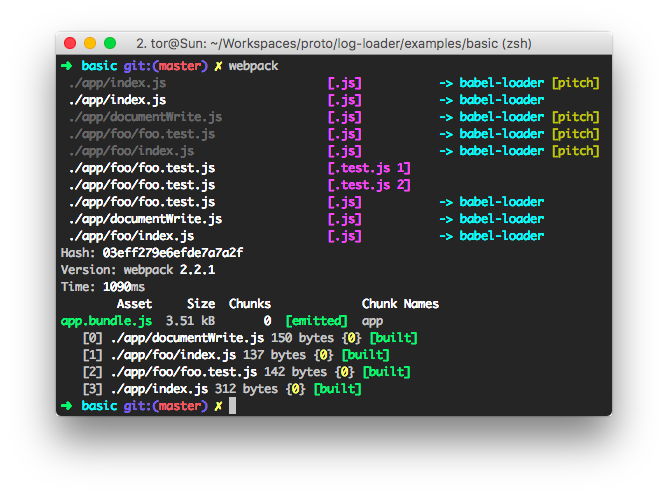
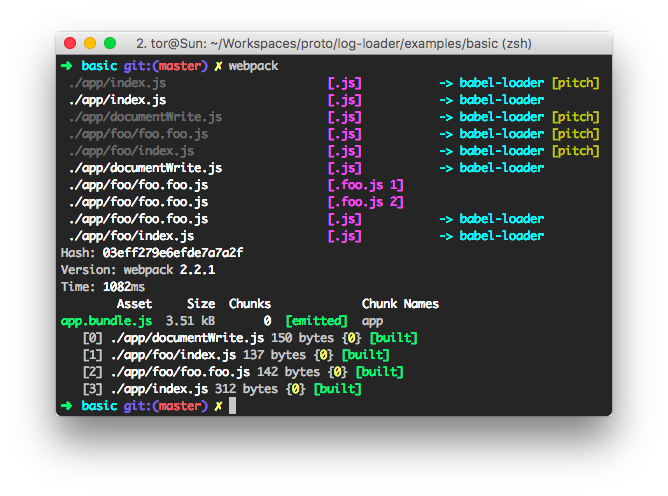
Update basic example

diff --git a/examples/basic/webpack.config.js b/examples/basic/webpack.config.js
@@ -22,7 +22,7 @@ module.exports = {
         extensions: [
             '.js',
             '.json',
-            '.test.js'
+            '.foo.js'
         ]
 
     },
@@ -43,7 +43,7 @@ module.exports = {
                 ]
             },
             {
-                test: /\.test\.js$/,
+                test: /\.foo\.js$/,
                 include: [
                     path.resolve(__dirname, 'app')
                 ],
@@ -51,8 +51,8 @@ module.exports = {
                     path.resolve(__dirname, 'node_modules')
                 ],
                 use: [
-                    'log-loader?id=.test.js 2',
-                    'log-loader?id=.test.js 1'
+                    'log-loader?id=.foo.js 2',
+                    'log-loader?id=.foo.js 1'
                 ]
             }
         ]

diff --git a/examples/basic/README.md b/examples/basic/README.md
@@ -1,9 +1,20 @@
 # Proto
 
+![](screenshot.png)
+
 ## Getting Started
 
+for see result of screenshot, follow next steps
 ```
+git clone https://github.com/extg/log-loader
+cd log-loader/examples/basic
 npm install
+node_modules/.bin/webpack
+```
+
+
+run build
+```
 npm run build
 npm run server
 ```
@@ -12,19 +23,3 @@ for dev
 ```
 npm run watch
 ```
-
-
-## loaders order
-
-```bash
- ./app/index.js                       [.js]           -> babel-loader [pitch]
- ./app/index.js                       [.js]           -> babel-loader
- ./app/documentWrite.js               [.js]           -> babel-loader [pitch]
- ./app/foo/foo.test.js                [.js]           -> babel-loader [pitch]
- ./app/foo/index.js                   [.js]           -> babel-loader [pitch]
- ./app/documentWrite.js               [.js]           -> babel-loader
- ./app/foo/foo.test.js                [.test.js 1]
- ./app/foo/foo.test.js                [.test.js 2]
- ./app/foo/foo.test.js                [.js]           -> babel-loader
- ./app/foo/index.js                   [.js]           -> babel-loader
- ```
